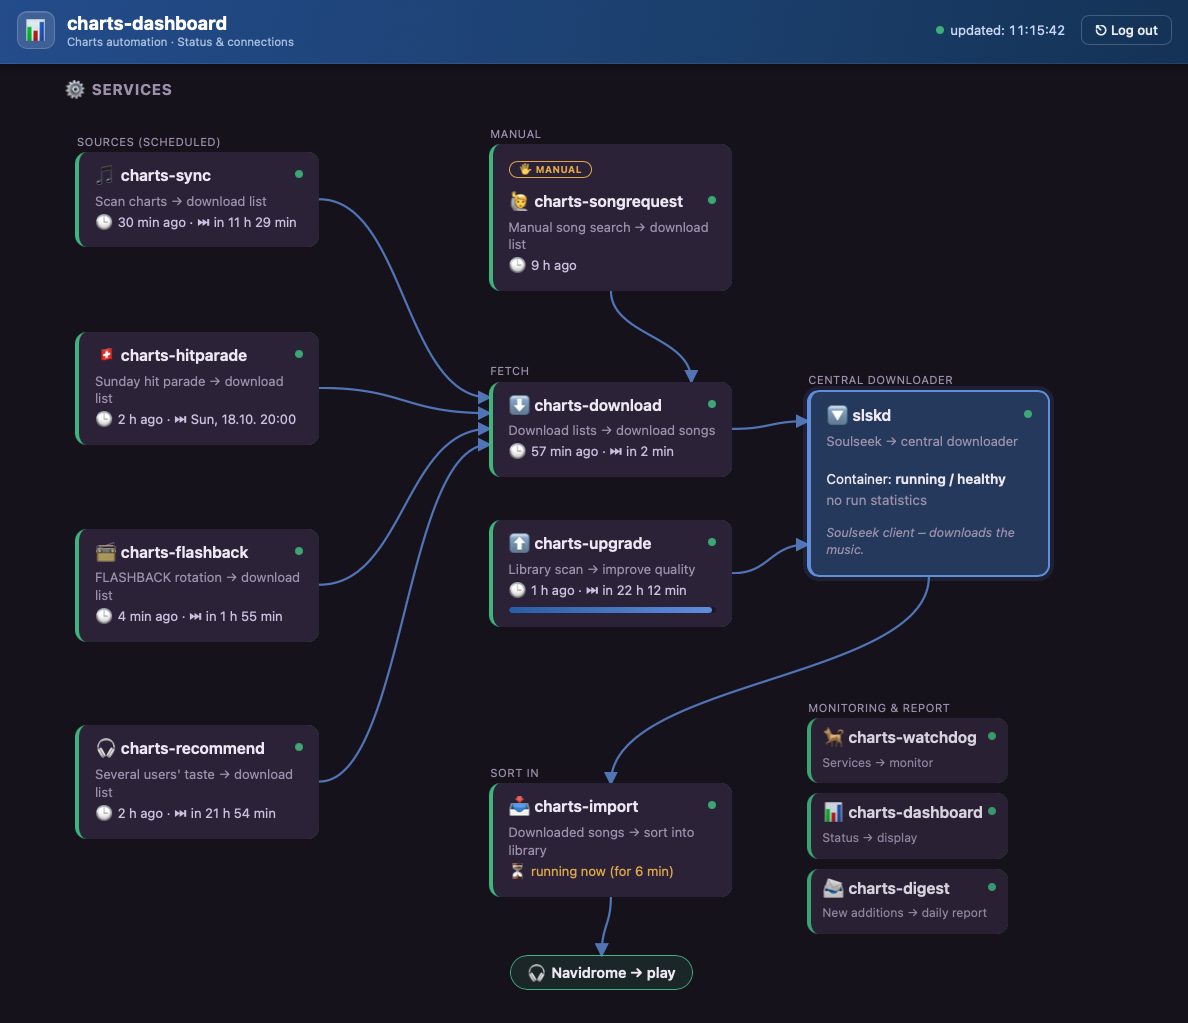
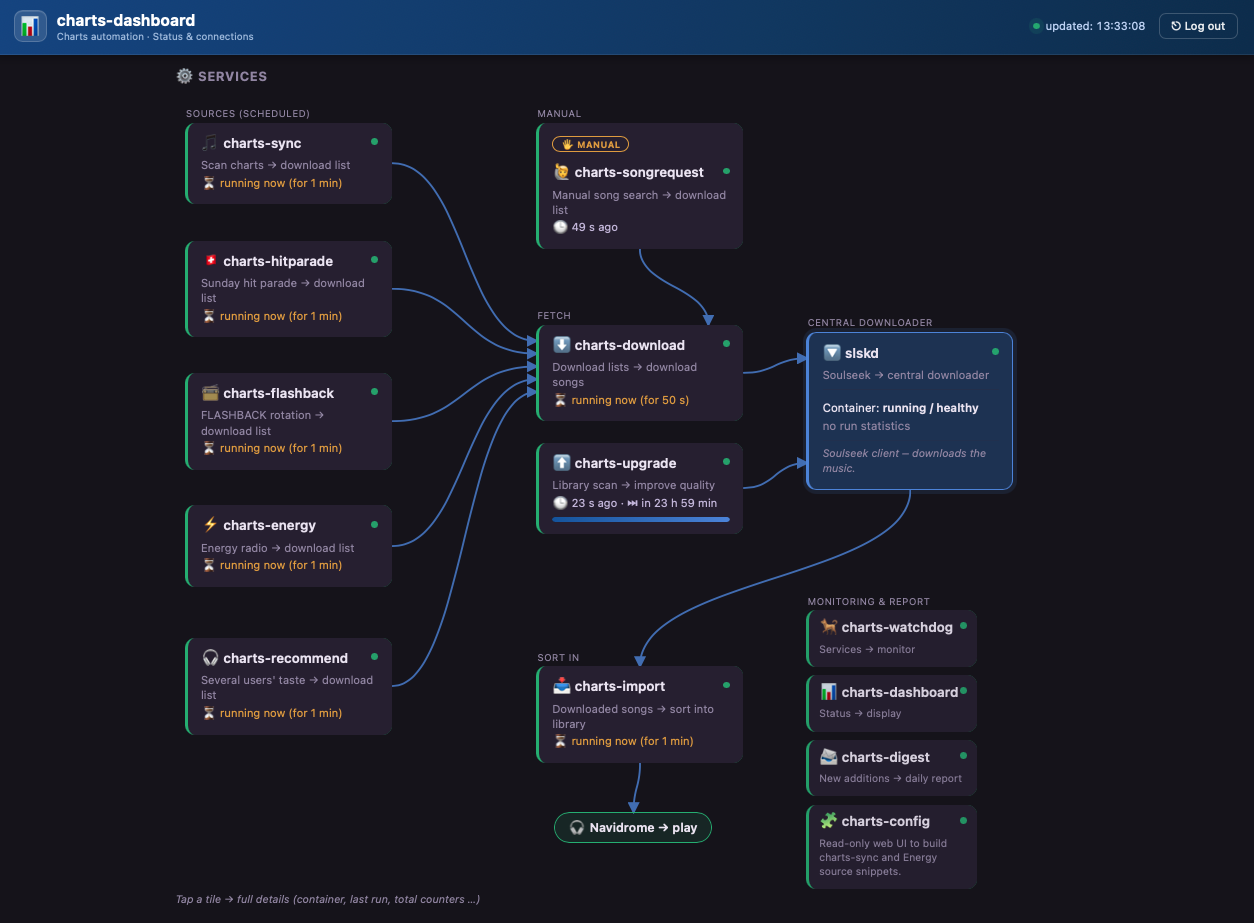
docs: refresh screenshots and add the Energy channel browser shot
Update the dashboard/connections/source-finder screenshots and add the new
charts-config Energy channel browser screenshot (energy_channels_finder.png)
to the README screenshot table.

diff --git a/README.md b/README.md
@@ -288,6 +288,8 @@ run stats come from small JSON files each service writes into
 | Dashboard: live connections | charts-config: source finder |
 | --- | --- |
 | ![Dashboard connections view](screenshots/connections.png) | ![charts-config source finder](screenshots/source_finder.png) |
+| charts-config: Energy channel browser | |
+| ![charts-config Energy channel browser](screenshots/energy_channels_finder.png) | |
 
 ### Language (logs, Pushover, dashboard)
 
